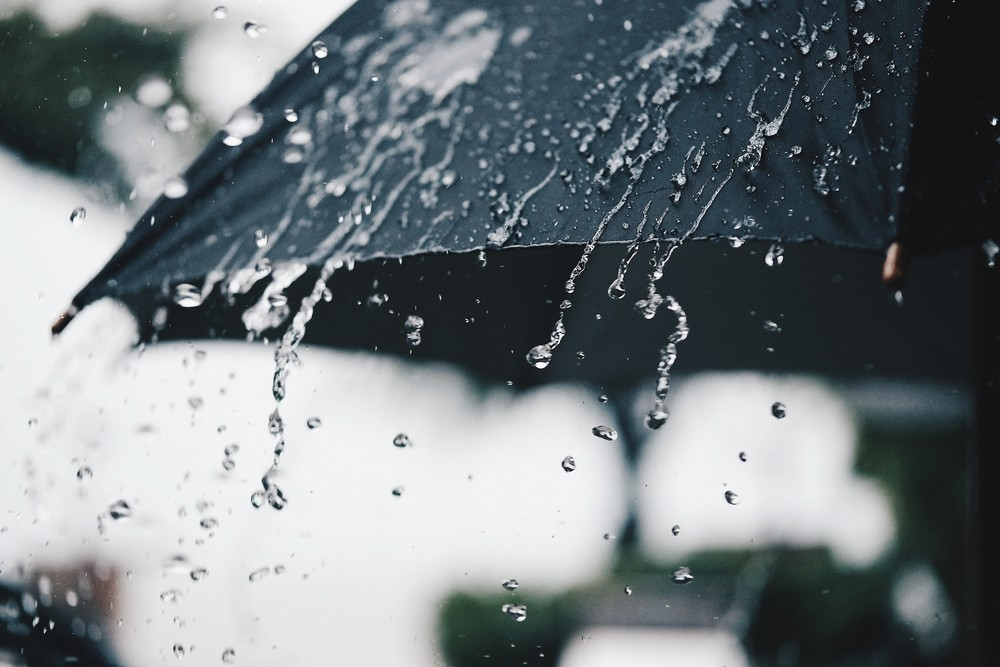
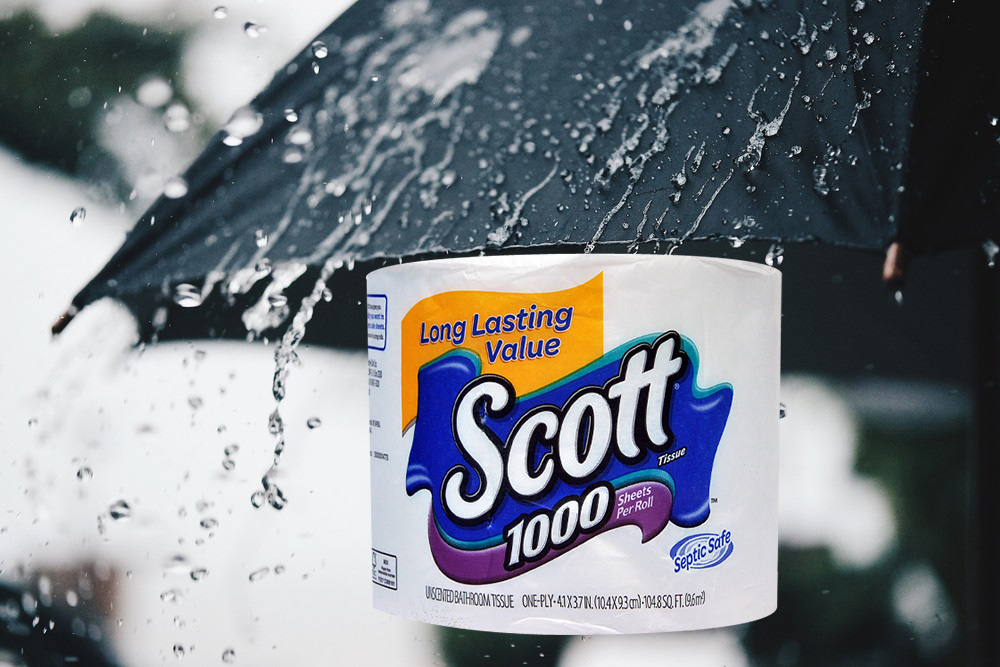
Updated BG img and first css file added

Changed region(s): [[0.341, 0.3598, 0.806, 0.9595]]

diff --git a/lab4 - App prototype/style.css b/lab4 - App prototype/style.css
@@ -1,0 +1,14 @@
+#ad {
+    width: 300px;
+    height: 250px;
+    border: solid black 1px;
+    background-size: cover;
+    box-shadow: inset 0 0 0 1000px rgba(255, 255, 255, .3);
+
+}
+
+#weather {
+    padding-left: 5px;
+    font-family: Arial, Helvetica, sans-serif;
+    font-weight: bold;
+}
